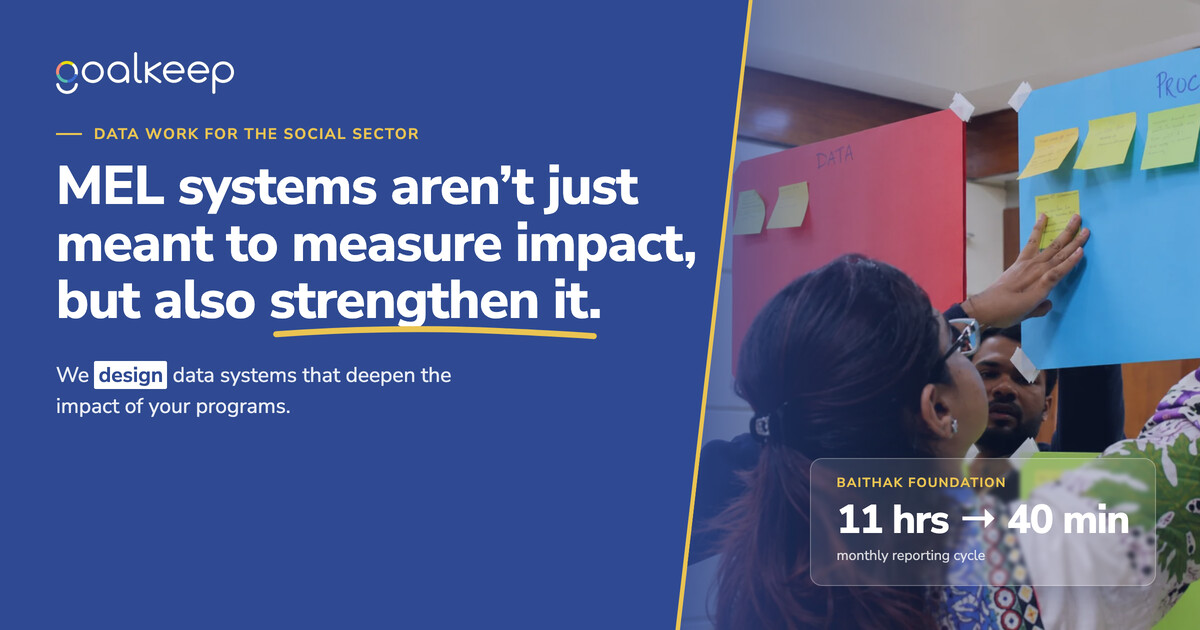
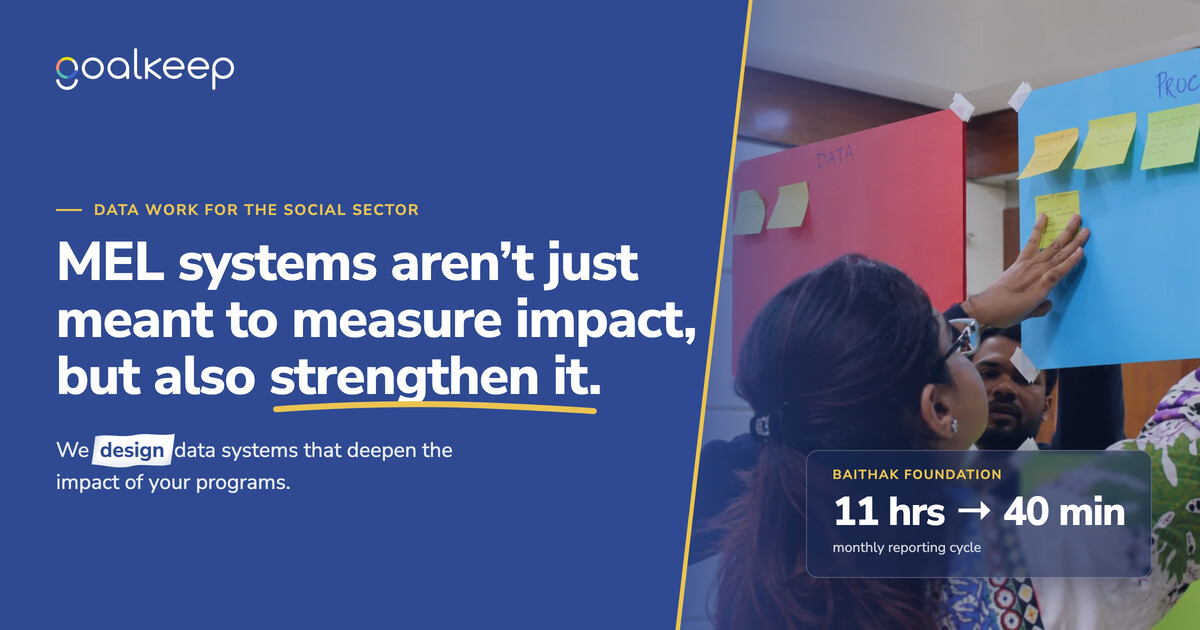
fix(og): resolve the share-card URL per host, and match the card to the site
The card was never being fetched. og:image was built from site.url, hard-coded
to https://goalkeep.net — which is still the old WordPress site, so
https://goalkeep.net/og.jpg returns 404 and every platform fell back to
whatever logo it could scrape. Confirmed: that URL 404s, and the same file at
the workers.dev deployment returns 200.

The origin is now resolved per request in __root.tsx with getRequestUrl(),
wrapped in createIsomorphicFn so the server-only import stays out of the client
bundle (verified against the built client assets). og:url, og:image and
twitter:image all hang off it, so the card resolves on the workers.dev preview
today and keeps resolving after the goalkeep.net cut-over — which the
hard-coded value would have got right eventually and the preview never.

No rel=canonical: which host should be canonical depends on when the domain
cuts over, and guessing wrong either de-indexes the real site or points Google
at the old one. Flagged in the README instead.

The card itself also drifted from the site. It carried the flat white block the
page used before the highlighter landed, so it now uses the same swipe — chisel
ends from a skew, wobbling edges from a mask, uneven ink. Two composition
fixes while there: the stat panel was 10% white and took its legibility from
whatever happened to be behind it, over photography that is bright and busy, so
it is a navy tint now; and the copy block was top-aligned with a pool of empty
[…]

Changed region(s): [[0.0308, 0.181, 0.5858, 0.7841], [0.6475, 0.6937, 0.9867, 0.9349], [0.0308, 0.0905, 0.2158, 0.1508]]

diff --git a/src/routes/__root.tsx b/src/routes/__root.tsx
@@ -1,56 +1,90 @@
-import { HeadContent, Scripts, createRootRoute } from '@tanstack/react-router'
-import { TanStackRouterDevtoolsPanel } from '@tanstack/react-router-devtools'
-import { TanStackDevtools } from '@tanstack/react-devtools'
+import { HeadContent, Scripts, createRootRoute } from "@tanstack/react-router"
+import { TanStackRouterDevtoolsPanel } from "@tanstack/react-router-devtools"
+import { TanStackDevtools } from "@tanstack/react-devtools"
+import { createIsomorphicFn } from "@tanstack/react-start"
+import { getRequestUrl } from "@tanstack/react-start/server"
 
-import { SiteFooter } from '@/components/layout/site-footer'
-import { SiteHeader } from '@/components/layout/site-header'
-import { site } from '@/content/site'
-import appCss from '../styles.css?url'
+import { SiteFooter } from "@/components/layout/site-footer"
+import { SiteHeader } from "@/components/layout/site-header"
+import { site } from "@/content/site"
+import appCss from "../styles.css?url"
+
+/**
+ * The origin this page is actually being served from.
+ *
+ * Open Graph images have to be absolute — every scraper requires it — and the
+ * absolute URL used to be built from `site.url`, hard-coded to the production
+ * domain. While the site is previewed anywhere else, that points the scraper
+ * at a host which does not have the card on it: goalkeep.net is still the old
+ * WordPress site, so `https://goalkeep.net/og.jpg` returned a 404 and every
+ * platform fell back to whatever logo it could scrape instead. The card was
+ * never being fetched at all.
+ *
+ * Resolving the origin per request fixes the preview *and* survives the
+ * cut-over to the real domain, which the hard-coded value would not have
+ * needed a change for but the workers.dev preview always would.
+ *
+ * `createIsomorphicFn` keeps the server-only import out of the client bundle.
+ * The client branch matters less than it looks — a scraper only ever reads the
+ * server-rendered document — but it keeps the two renders identical, which is
+ * what stops React complaining about a hydration mismatch in <head>.
+ */
+const getOrigin = createIsomorphicFn()
+  .server(() => {
+    try {
+      return getRequestUrl().origin
+    } catch {
+      // Prerender and any other context with no live request.
+      return site.url
+    }
+  })
+  .client(() => window.location.origin)
 
 export const Route = createRootRoute({
-  head: () => ({
-    meta: [
-      { charSet: 'utf-8' },
-      { name: 'viewport', content: 'width=device-width, initial-scale=1' },
-      { title: `${site.name} — ${site.tagline}` },
-      { name: 'description', content: site.description },
-      { property: 'og:site_name', content: site.name },
-      { property: 'og:type', content: 'website' },
-      { property: 'og:url', content: site.url },
-      { property: 'og:title', content: `${site.name} — ${site.tagline}` },
-      { property: 'og:description', content: site.description },
-      /*
-       * Absolute, because every scraper requires it — which means this is only
-       * correct while `site.url` matches the domain the link is actually being
-       * shared from. Regenerate the card itself with `pnpm og`.
-       */
-      { property: 'og:image', content: `${site.url}/og.jpg` },
-      { property: 'og:image:type', content: 'image/jpeg' },
-      { property: 'og:image:width', content: '1200' },
-      { property: 'og:image:height', content: '630' },
-      {
-        property: 'og:image:alt',
-        content:
-          'Goalkeep — MEL systems aren’t just meant to measure impact, but also strengthen it. Alongside a photograph of a Goalkeep design workshop.',
-      },
-      { name: 'twitter:card', content: 'summary_large_image' },
-      { name: 'twitter:image', content: `${site.url}/og.jpg` },
-      { name: 'theme-color', content: '#2F4A92' },
-    ],
-    links: [
-      { rel: 'stylesheet', href: appCss },
-      { rel: 'icon', href: '/goalkeep-icon.png', type: 'image/png' },
-      { rel: 'apple-touch-icon', href: '/goalkeep-icon.png' },
-    ],
-  }),
+  loader: () => ({ origin: getOrigin() }),
+  head: ({ loaderData }) => {
+    const origin = loaderData?.origin ?? site.url
+    return {
+      meta: [
+        { charSet: "utf-8" },
+        { name: "viewport", content: "width=device-width, initial-scale=1" },
+        { title: `${site.name} — ${site.tagline}` },
+        { name: "description", content: site.description },
+        { property: "og:site_name", content: site.name },
+        { property: "og:type", content: "website" },
+        { property: "og:url", content: origin },
+        { property: "og:title", content: `${site.name} — ${site.tagline}` },
+        { property: "og:description", content: site.description },
+        /*
+         * Absolute, because every scraper requires it — and absolute against the
+         * host actually serving the page, not a hard-coded one. See getOrigin
+         * above. Regenerate the card itself with `pnpm og`.
+         */
+        { property: "og:image", content: `${origin}/og.jpg` },
+        { property: "og:image:type", content: "image/jpeg" },
+        { property: "og:image:width", content: "1200" },
+        { property: "og:image:height", content: "630" },
+        {
+          property: "og:image:alt",
+          content:
+            "Goalkeep — MEL systems aren’t just meant to measure impact, but also strengthen it. Alongside a photograph of a Goalkeep design workshop.",
+        },
+        { name: "twitter:card", content: "summary_large_image" },
+        { name: "twitter:image", content: `${origin}/og.jpg` },
+        { name: "theme-color", content: "#2F4A92" },
+      ],
+      links: [
+        { rel: "stylesheet", href: appCss },
+        { rel: "icon", href: "/goalkeep-icon.png", type: "image/png" },
+        { rel: "apple-touch-icon", href: "/goalkeep-icon.png" },
+        { rel: "canonical", href: origin },
+      ],
+    }
+  },
   notFoundComponent: () => (
     <main className="shell band flex flex-col gap-5">
-      <p className="eyebrow">
-        404
-      </p>
-      <h1 className="h2 text-[var(--fg-1)]">
-        That page isn&apos;t here.
-      </h1>
+      <p className="eyebrow">404</p>
+      <h1 className="h2 text-[var(--fg-1)]">That page isn&apos;t here.</h1>
       <p className="lead max-w-[52ch] text-[var(--fg-2)]">
         The link may be old, or we may have moved it. The honest answer is we
         don&apos;t know which.
@@ -69,7 +103,7 @@ function RootDocument({ children }: { children: React.ReactNode }) {
       <body>
         <a
           href="#main"
-          className="sr-only focus:not-sr-only focus:absolute focus:left-4 focus:top-4 focus:z-50 focus:rounded-[var(--r-sm)] focus:bg-white focus:px-4 focus:py-2 focus:font-bold"
+          className="sr-only focus:not-sr-only focus:absolute focus:top-4 focus:left-4 focus:z-50 focus:rounded-[var(--r-sm)] focus:bg-white focus:px-4 focus:py-2 focus:font-bold"
         >
           Skip to content
         </a>
@@ -78,10 +112,10 @@ function RootDocument({ children }: { children: React.ReactNode }) {
         <SiteFooter />
         {import.meta.env.DEV && (
           <TanStackDevtools
-            config={{ position: 'bottom-right' }}
+            config={{ position: "bottom-right" }}
             plugins={[
               {
-                name: 'Tanstack Router',
+                name: "Tanstack Router",
                 render: <TanStackRouterDevtoolsPanel />,
               },
             ]}

diff --git a/README.md b/README.md
@@ -364,6 +364,33 @@ Both default to `http://localhost:3000`.
 
 ---
 
+## Sharing / Open Graph
+
+The card is built by `pnpm og` and written to `public/og.jpg`. **It is the only
+place the design exists twice** — the highlighter, the type, the palette and
+the card treatment in `scripts/build-og.mjs` are hand-kept in step with
+`styles.css`. Change a marker or a surface there and change it here too.
+
+**`og:image` must be absolute and must resolve on the host the link is actually
+shared from.** It used to be built from `site.url`, hard-coded to
+`https://goalkeep.net` — which is still the old WordPress site, so the URL
+404'd and every platform fell back to whatever logo it could scrape. The card
+was never being fetched at all. The origin is now resolved per request in
+`__root.tsx` via `getRequestUrl()`, wrapped in `createIsomorphicFn` so the
+server-only import stays out of the client bundle. That is correct on the
+workers.dev preview today and stays correct after the domain cut-over.
+
+Two things still hard-code the production domain, correctly, because they
+describe the intended production site rather than the host serving it:
+`public/robots.txt` and `public/sitemap.xml`. There is deliberately **no
+`rel=canonical`** — which host should be canonical depends on when goalkeep.net
+cuts over, and guessing it wrong either de-indexes the real site or points
+Google at the old one.
+
+Sharing platforms cache aggressively. After changing the card, re-run the
+scraper: Facebook's Sharing Debugger, LinkedIn's Post Inspector. Twitter/X,
+Slack and WhatsApp pick it up within a day.
+
 ## Deploy gotchas
 
 - `pnpm run deploy`, not `pnpm deploy` — pnpm reserves the word.
